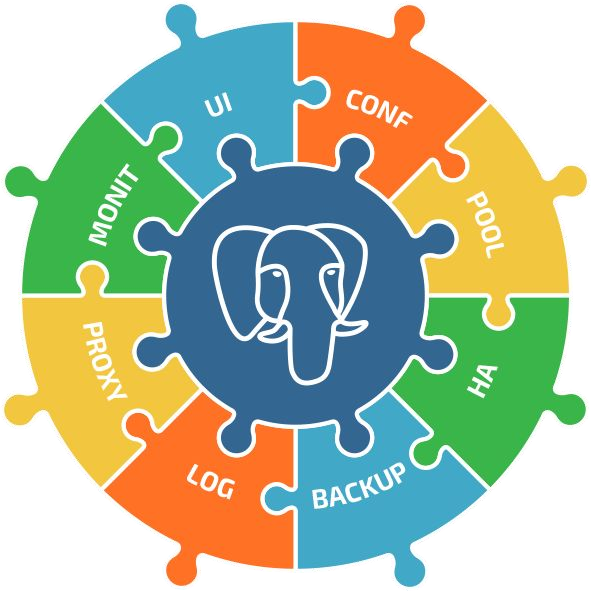
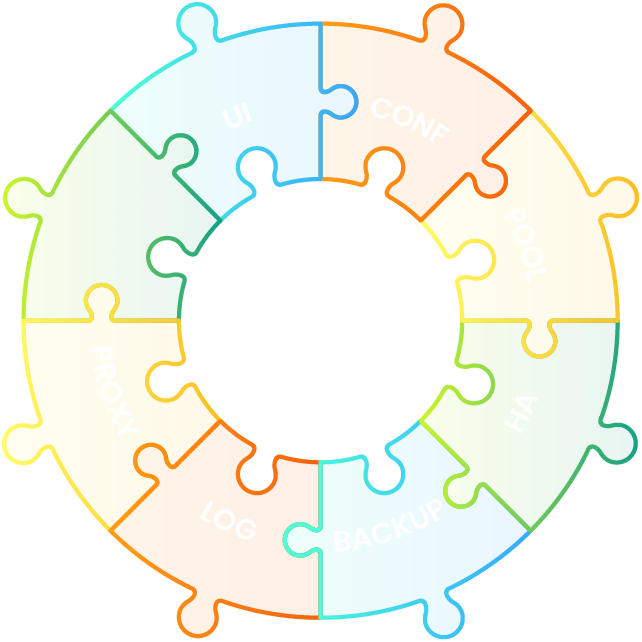
feat: update images to new dark layout

diff --git a/doc/content/en/04-administration-guide/16-patroni-management/_index.md b/doc/content/en/04-administration-guide/16-patroni-management/_index.md
@@ -6,18 +6,8 @@ url: administration/patroni/management
 
 Once you hace a StackGres cluster installed you'll have a Full HA PostgreSQL configuration and depending of the size of your cluster you´ll have something like this:
 
-{{<mermaid>}}
-graph TB
-    stackgres-0 -.-> stackgres-1
-    stackgres-0 -.-> stackgres-2
-    stackgres-0 -.-> stackgres-N
-    subgraph PostgreSQL StackGres Cluster
-        stackgres-0(Primary Database)
-        stackgres-1(DB Replica 1)
-        stackgres-2(DB Replica 2)
-        stackgres-N(DB Replica<i>...N</i>)
-    end
-{{</mermaid>}}
+
+![Patroni Management](patroni-management.png "Patroni Management")
 
 These represents the containers of the StackGres cluster and you can list them using `kubectl` command like:
 
